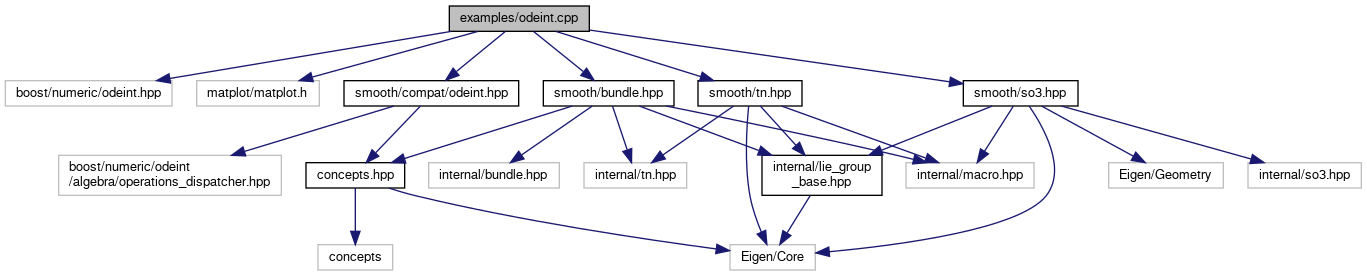
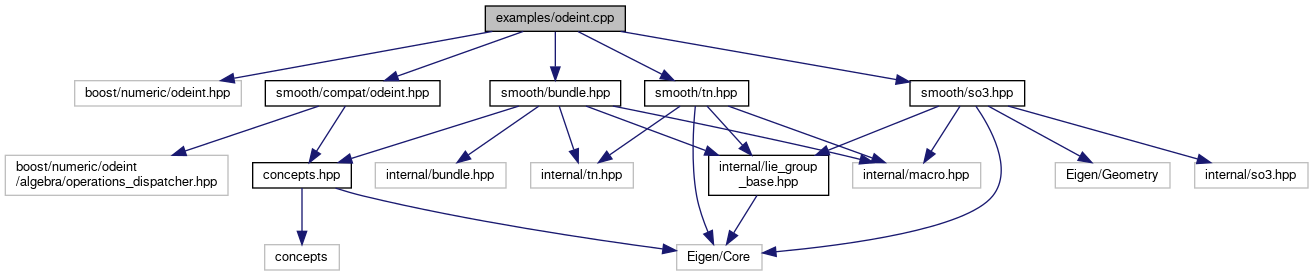
deploy: 5dc5e5d7a716d420cf006dfdaf5f03e4e88a1a3f

diff --git a/odeint_8cpp_source.html b/odeint_8cpp_source.html
@@ -104,97 +104,96 @@ $(function() {
 <div class="line"><a name="l00025"></a><span class="lineno">   25</span>&#160; </div>
 <div class="line"><a name="l00030"></a><span class="lineno">   30</span>&#160;<span class="preprocessor">#include &lt;boost/numeric/odeint.hpp&gt;</span></div>
 <div class="line"><a name="l00031"></a><span class="lineno">   31</span>&#160; </div>
-<div class="line"><a name="l00032"></a><span class="lineno">   32</span>&#160;<span class="preprocessor">#include &lt;matplot/matplot.h&gt;</span></div>
-<div class="line"><a name="l00033"></a><span class="lineno">   33</span>&#160; </div>
-<div class="line"><a name="l00034"></a><span class="lineno">   34</span>&#160;<span class="preprocessor">#include &quot;smooth/bundle.hpp&quot;</span></div>
-<div class="line"><a name="l00035"></a><span class="lineno">   35</span>&#160;<span class="preprocessor">#include &quot;<a class="code" href="odeint_8hpp.html">smooth/compat/odeint.hpp</a>&quot;</span></div>
-<div class="line"><a name="l00036"></a><span class="lineno">   36</span>&#160;<span class="preprocessor">#include &quot;smooth/so3.hpp&quot;</span></div>
-<div class="line"><a name="l00037"></a><span class="lineno">   37</span>&#160;<span class="preprocessor">#include &quot;smooth/tn.hpp&quot;</span></div>
-<div class="line"><a name="l00038"></a><span class="lineno">   38</span>&#160; </div>
-<div class="line"><a name="l00039"></a><span class="lineno">   39</span>&#160;<span class="preprocessor">#ifdef ENABLE_PLOTTING</span></div>
-<div class="line"><a name="l00040"></a><span class="lineno">   40</span>&#160;<span class="preprocessor">#include &quot;plot_tools.hpp&quot;</span></div>
-<div class="line"><a name="l00041"></a><span class="lineno">   41</span>&#160; </div>
-<div class="line"><a name="l00042"></a><span class="lineno">   42</span>&#160;<span class="keyword">using</span> matplot::plot;</div>
-<div class="line"><a name="l00043"></a><span class="lineno">   43</span>&#160;<span class="keyword">using</span> std::views::transform;</div>
-<div class="line"><a name="l00044"></a><span class="lineno">   44</span>&#160;<span class="preprocessor">#endif</span></div>
-<div class="line"><a name="l00045"></a><span class="lineno">   45</span>&#160; </div>
-<div class="line"><a name="l00054"></a><span class="lineno"><a class="line" href="odeint_8cpp.html#a2b760810e5bb0cfb55f0c7d6d74d4438">   54</a></span>&#160;<span class="keywordtype">int</span> <a class="code" href="odeint_8cpp.html#a2b760810e5bb0cfb55f0c7d6d74d4438">main</a>(<span class="keywordtype">int</span>, <span class="keywordtype">char</span> <span class="keyword">const</span> **)</div>
-<div class="line"><a name="l00055"></a><span class="lineno">   55</span>&#160;{</div>
-<div class="line"><a name="l00056"></a><span class="lineno">   56</span>&#160;  <span class="keyword">using</span> state_t = <a class="code" href="classsmooth_1_1Bundle.html">smooth::Bundle&lt;smooth::SO3d, Eigen::Vector3d&gt;</a>;</div>
-<div class="line"><a name="l00057"></a><span class="lineno">   57</span>&#160;  <span class="keyword">using</span> deriv_t = <span class="keyword">typename</span> state_t::Tangent;</div>
-<div class="line"><a name="l00058"></a><span class="lineno">   58</span>&#160; </div>
-<div class="line"><a name="l00059"></a><span class="lineno">   59</span>&#160;  std::srand(5);</div>
-<div class="line"><a name="l00060"></a><span class="lineno">   60</span>&#160; </div>
-<div class="line"><a name="l00061"></a><span class="lineno">   61</span>&#160;  <span class="comment">// equilibrium point</span></div>
-<div class="line"><a name="l00062"></a><span class="lineno">   62</span>&#160;  <span class="keyword">const</span> <a class="code" href="classsmooth_1_1SO3.html">smooth::SO3d</a> Xdes = <a class="code" href="classsmooth_1_1LieGroupBase.html#a2d07c997add59d0c5fe899f1bcdf05fa">smooth::SO3d::Identity</a>();</div>
-<div class="line"><a name="l00063"></a><span class="lineno">   63</span>&#160; </div>
-<div class="line"><a name="l00064"></a><span class="lineno">   64</span>&#160;  <span class="comment">// &quot;control&quot; proportional and derivative gains</span></div>
-<div class="line"><a name="l00065"></a><span class="lineno">   65</span>&#160;  constexpr <span class="keywordtype">double</span> kp = 1;</div>
-<div class="line"><a name="l00066"></a><span class="lineno">   66</span>&#160;  constexpr <span class="keywordtype">double</span> kd = 1;</div>
-<div class="line"><a name="l00067"></a><span class="lineno">   67</span>&#160; </div>
-<div class="line"><a name="l00068"></a><span class="lineno">   68</span>&#160;  <span class="keyword">auto</span> ode = [&amp;](<span class="keyword">const</span> state_t &amp; state, deriv_t &amp; deriv, double) {</div>
-<div class="line"><a name="l00069"></a><span class="lineno">   69</span>&#160;    deriv.template head&lt;3&gt;() = state.part&lt;1&gt;();</div>
-<div class="line"><a name="l00070"></a><span class="lineno">   70</span>&#160;    deriv.template tail&lt;3&gt;() = -kp * (state.part&lt;0&gt;() - Xdes) - kd * state.part&lt;1&gt;();</div>
-<div class="line"><a name="l00071"></a><span class="lineno">   71</span>&#160;  };</div>
-<div class="line"><a name="l00072"></a><span class="lineno">   72</span>&#160; </div>
-<div class="line"><a name="l00073"></a><span class="lineno">   73</span>&#160;  state_t state;</div>
-<div class="line"><a name="l00074"></a><span class="lineno">   74</span>&#160;  state.part&lt;0&gt;() = <a class="code" href="classsmooth_1_1SO3.html">smooth::SO3d</a>(Eigen::Quaterniond(0, 0.8, 0, 0.1));</div>
-<div class="line"><a name="l00075"></a><span class="lineno">   75</span>&#160;  state.part&lt;1&gt;() = Eigen::Vector3d(0, 0, 2);</div>
-<div class="line"><a name="l00076"></a><span class="lineno">   76</span>&#160; </div>
-<div class="line"><a name="l00077"></a><span class="lineno">   77</span>&#160;  std::vector&lt;double&gt; tvec;</div>
-<div class="line"><a name="l00078"></a><span class="lineno">   78</span>&#160;  std::vector&lt;state_t&gt; gvec;</div>
-<div class="line"><a name="l00079"></a><span class="lineno">   79</span>&#160; </div>
-<div class="line"><a name="l00080"></a><span class="lineno">   80</span>&#160;  <span class="keyword">auto</span> stepper = boost::numeric::odeint::</div>
-<div class="line"><a name="l00081"></a><span class="lineno">   81</span>&#160;    runge_kutta4&lt;state_t, double, deriv_t, double, boost::numeric::odeint::vector_space_algebra&gt;();</div>
-<div class="line"><a name="l00082"></a><span class="lineno">   82</span>&#160; </div>
-<div class="line"><a name="l00083"></a><span class="lineno">   83</span>&#160;  boost::numeric::odeint::integrate_const(</div>
-<div class="line"><a name="l00084"></a><span class="lineno">   84</span>&#160;    stepper, ode, state, 0., 10., 0.01, [&amp;tvec, &amp;gvec](<span class="keyword">const</span> state_t &amp; s, <span class="keywordtype">double</span> t) {</div>
-<div class="line"><a name="l00085"></a><span class="lineno">   85</span>&#160;      tvec.push_back(t);</div>
-<div class="line"><a name="l00086"></a><span class="lineno">   86</span>&#160;      gvec.push_back(s);</div>
-<div class="line"><a name="l00087"></a><span class="lineno">   87</span>&#160;    });</div>
-<div class="line"><a name="l00088"></a><span class="lineno">   88</span>&#160; </div>
-<div class="line"><a name="l00089"></a><span class="lineno">   89</span>&#160;<span class="preprocessor">#ifdef ENABLE_PLOTTING</span></div>
-<div class="line"><a name="l00090"></a><span class="lineno">   90</span>&#160;  matplot::figure();</div>
-<div class="line"><a name="l00091"></a><span class="lineno">   91</span>&#160;  matplot::hold(matplot::on);</div>
-<div class="line"><a name="l00092"></a><span class="lineno">   92</span>&#160;  <span class="comment">// plot a sphere</span></div>
-<div class="line"><a name="l00093"></a><span class="lineno">   93</span>&#160;  <span class="keyword">auto</span> phi = matplot::linspace(0, 2 * M_PI, 200);</div>
-<div class="line"><a name="l00094"></a><span class="lineno">   94</span>&#160;  <span class="keywordflow">for</span> (<span class="keywordtype">double</span> h = -0.9; h &lt; 0.95; h += 0.2) {</div>
-<div class="line"><a name="l00095"></a><span class="lineno">   95</span>&#160;    <span class="keyword">auto</span> xsph = r2v(phi | transform([&amp;](<span class="keywordtype">double</span> p) { <span class="keywordflow">return</span> std::sqrt(1. - h * h) * std::cos(p); }));</div>
-<div class="line"><a name="l00096"></a><span class="lineno">   96</span>&#160;    <span class="keyword">auto</span> ysph = r2v(phi | transform([&amp;](<span class="keywordtype">double</span> p) { <span class="keywordflow">return</span> std::sqrt(1. - h * h) * std::sin(p); }));</div>
-<div class="line"><a name="l00097"></a><span class="lineno">   97</span>&#160;    <span class="keyword">auto</span> zsph = r2v(phi | transform([&amp;](<span class="keywordtype">double</span> p) { <span class="keywordflow">return</span> h; }));</div>
-<div class="line"><a name="l00098"></a><span class="lineno">   98</span>&#160;    matplot::plot3(xsph, ysph, zsph)-&gt;line_width(0.25).color(<span class="stringliteral">&quot;gray&quot;</span>);</div>
-<div class="line"><a name="l00099"></a><span class="lineno">   99</span>&#160;    matplot::plot3(ysph, zsph, xsph)-&gt;line_width(0.25).color(<span class="stringliteral">&quot;gray&quot;</span>);</div>
-<div class="line"><a name="l00100"></a><span class="lineno">  100</span>&#160;    matplot::plot3(zsph, xsph, ysph)-&gt;line_width(0.25).color(<span class="stringliteral">&quot;gray&quot;</span>);</div>
-<div class="line"><a name="l00101"></a><span class="lineno">  101</span>&#160;  }</div>
-<div class="line"><a name="l00102"></a><span class="lineno">  102</span>&#160;  <span class="comment">// plot the trajectory</span></div>
-<div class="line"><a name="l00103"></a><span class="lineno">  103</span>&#160;  <span class="keyword">auto</span> xyz =</div>
-<div class="line"><a name="l00104"></a><span class="lineno">  104</span>&#160;    gvec | transform([](<span class="keyword">auto</span> s) { <span class="keywordflow">return</span> s.template part&lt;0&gt;() * Eigen::Vector3d::UnitZ(); });</div>
-<div class="line"><a name="l00105"></a><span class="lineno">  105</span>&#160;  matplot::plot3(r2v(xyz | transform([](<span class="keyword">auto</span> s) { <span class="keywordflow">return</span> s.x(); })),</div>
-<div class="line"><a name="l00106"></a><span class="lineno">  106</span>&#160;    r2v(xyz | transform([](<span class="keyword">auto</span> s) { <span class="keywordflow">return</span> s.y(); })),</div>
-<div class="line"><a name="l00107"></a><span class="lineno">  107</span>&#160;    r2v(xyz | transform([](<span class="keyword">auto</span> s) { <span class="keywordflow">return</span> s.z(); })))</div>
-<div class="line"><a name="l00108"></a><span class="lineno">  108</span>&#160;    -&gt;line_width(4)</div>
-<div class="line"><a name="l00109"></a><span class="lineno">  109</span>&#160;    .color(<span class="stringliteral">&quot;blue&quot;</span>);</div>
-<div class="line"><a name="l00110"></a><span class="lineno">  110</span>&#160;  matplot::title(<span class="stringliteral">&quot;Attitude&quot;</span>);</div>
-<div class="line"><a name="l00111"></a><span class="lineno">  111</span>&#160; </div>
-<div class="line"><a name="l00112"></a><span class="lineno">  112</span>&#160;  matplot::figure();</div>
-<div class="line"><a name="l00113"></a><span class="lineno">  113</span>&#160;  matplot::hold(matplot::on);</div>
-<div class="line"><a name="l00114"></a><span class="lineno">  114</span>&#160;  plot(tvec, r2v(gvec | transform([](<span class="keyword">auto</span> s) { <span class="keywordflow">return</span> s.template part&lt;1&gt;()[0]; })), <span class="stringliteral">&quot;r&quot;</span>)</div>
-<div class="line"><a name="l00115"></a><span class="lineno">  115</span>&#160;    -&gt;line_width(2);</div>
-<div class="line"><a name="l00116"></a><span class="lineno">  116</span>&#160;  plot(tvec, r2v(gvec | transform([](<span class="keyword">auto</span> s) { <span class="keywordflow">return</span> s.template part&lt;1&gt;()[1]; })), <span class="stringliteral">&quot;g&quot;</span>)</div>
-<div class="line"><a name="l00117"></a><span class="lineno">  117</span>&#160;    -&gt;line_width(2);</div>
-<div class="line"><a name="l00118"></a><span class="lineno">  118</span>&#160;  plot(tvec, r2v(gvec | transform([](<span class="keyword">auto</span> s) { <span class="keywordflow">return</span> s.template part&lt;1&gt;()[2]; })), <span class="stringliteral">&quot;b&quot;</span>)</div>
-<div class="line"><a name="l00119"></a><span class="lineno">  119</span>&#160;    -&gt;line_width(2);</div>
-<div class="line"><a name="l00120"></a><span class="lineno">  120</span>&#160;  matplot::title(<span class="stringliteral">&quot;Velocity&quot;</span>);</div>
-<div class="line"><a name="l00121"></a><span class="lineno">  121</span>&#160; </div>
-<div class="line"><a name="l00122"></a><span class="lineno">  122</span>&#160;  matplot::show();</div>
-<div class="line"><a name="l00123"></a><span class="lineno">  123</span>&#160;<span class="preprocessor">#endif</span></div>
-<div class="line"><a name="l00124"></a><span class="lineno">  124</span>&#160; </div>
-<div class="line"><a name="l00125"></a><span class="lineno">  125</span>&#160;  <span class="keywordflow">return</span> 0;</div>
-<div class="line"><a name="l00126"></a><span class="lineno">  126</span>&#160;}</div>
+<div class="line"><a name="l00032"></a><span class="lineno">   32</span>&#160;<span class="preprocessor">#include &quot;smooth/bundle.hpp&quot;</span></div>
+<div class="line"><a name="l00033"></a><span class="lineno">   33</span>&#160;<span class="preprocessor">#include &quot;<a class="code" href="odeint_8hpp.html">smooth/compat/odeint.hpp</a>&quot;</span></div>
+<div class="line"><a name="l00034"></a><span class="lineno">   34</span>&#160;<span class="preprocessor">#include &quot;smooth/so3.hpp&quot;</span></div>
+<div class="line"><a name="l00035"></a><span class="lineno">   35</span>&#160;<span class="preprocessor">#include &quot;smooth/tn.hpp&quot;</span></div>
+<div class="line"><a name="l00036"></a><span class="lineno">   36</span>&#160; </div>
+<div class="line"><a name="l00037"></a><span class="lineno">   37</span>&#160;<span class="preprocessor">#ifdef ENABLE_PLOTTING</span></div>
+<div class="line"><a name="l00038"></a><span class="lineno">   38</span>&#160;<span class="preprocessor">#include &lt;matplot/matplot.h&gt;</span></div>
+<div class="line"><a name="l00039"></a><span class="lineno">   39</span>&#160;<span class="preprocessor">#include &quot;plot_tools.hpp&quot;</span></div>
+<div class="line"><a name="l00040"></a><span class="lineno">   40</span>&#160; </div>
+<div class="line"><a name="l00041"></a><span class="lineno">   41</span>&#160;<span class="keyword">using</span> matplot::plot;</div>
+<div class="line"><a name="l00042"></a><span class="lineno">   42</span>&#160;<span class="keyword">using</span> std::views::transform;</div>
+<div class="line"><a name="l00043"></a><span class="lineno">   43</span>&#160;<span class="preprocessor">#endif</span></div>
+<div class="line"><a name="l00044"></a><span class="lineno">   44</span>&#160; </div>
+<div class="line"><a name="l00053"></a><span class="lineno"><a class="line" href="odeint_8cpp.html#a2b760810e5bb0cfb55f0c7d6d74d4438">   53</a></span>&#160;<span class="keywordtype">int</span> <a class="code" href="odeint_8cpp.html#a2b760810e5bb0cfb55f0c7d6d74d4438">main</a>(<span class="keywordtype">int</span>, <span class="keywordtype">char</span> <span class="keyword">const</span> **)</div>
+<div class="line"><a name="l00054"></a><span class="lineno">   54</span>&#160;{</div>
+<div class="line"><a name="l00055"></a><span class="lineno">   55</span>&#160;  <span class="keyword">using</span> state_t = <a class="code" href="classsmooth_1_1Bundle.html">smooth::Bundle&lt;smooth::SO3d, Eigen::Vector3d&gt;</a>;</div>
+<div class="line"><a name="l00056"></a><span class="lineno">   56</span>&#160;  <span class="keyword">using</span> deriv_t = <span class="keyword">typename</span> state_t::Tangent;</div>
+<div class="line"><a name="l00057"></a><span class="lineno">   57</span>&#160; </div>
+<div class="line"><a name="l00058"></a><span class="lineno">   58</span>&#160;  std::srand(5);</div>
+<div class="line"><a name="l00059"></a><span class="lineno">   59</span>&#160; </div>
+<div class="line"><a name="l00060"></a><span class="lineno">   60</span>&#160;  <span class="comment">// equilibrium point</span></div>
+<div class="line"><a name="l00061"></a><span class="lineno">   61</span>&#160;  <span class="keyword">const</span> <a class="code" href="classsmooth_1_1SO3.html">smooth::SO3d</a> Xdes = <a class="code" href="classsmooth_1_1LieGroupBase.html#a2d07c997add59d0c5fe899f1bcdf05fa">smooth::SO3d::Identity</a>();</div>
+<div class="line"><a name="l00062"></a><span class="lineno">   62</span>&#160; </div>
+<div class="line"><a name="l00063"></a><span class="lineno">   63</span>&#160;  <span class="comment">// &quot;control&quot; proportional and derivative gains</span></div>
+<div class="line"><a name="l00064"></a><span class="lineno">   64</span>&#160;  constexpr <span class="keywordtype">double</span> kp = 1;</div>
+<div class="line"><a name="l00065"></a><span class="lineno">   65</span>&#160;  constexpr <span class="keywordtype">double</span> kd = 1;</div>
+<div class="line"><a name="l00066"></a><span class="lineno">   66</span>&#160; </div>
+<div class="line"><a name="l00067"></a><span class="lineno">   67</span>&#160;  <span class="keyword">auto</span> ode = [&amp;](<span class="keyword">const</span> state_t &amp; state, deriv_t &amp; deriv, double) {</div>
+<div class="line"><a name="l00068"></a><span class="lineno">   68</span>&#160;    deriv.template head&lt;3&gt;() = state.part&lt;1&gt;();</div>
+<div class="line"><a name="l00069"></a><span class="lineno">   69</span>&#160;    deriv.template tail&lt;3&gt;() = -kp * (state.part&lt;0&gt;() - Xdes) - kd * state.part&lt;1&gt;();</div>
+<div class="line"><a name="l00070"></a><span class="lineno">   70</span>&#160;  };</div>
+<div class="line"><a name="l00071"></a><span class="lineno">   71</span>&#160; </div>
+<div class="line"><a name="l00072"></a><span class="lineno">   72</span>&#160;  state_t state;</div>
+<div class="line"><a name="l00073"></a><span class="lineno">   73</span>&#160;  state.part&lt;0&gt;() = <a class="code" href="classsmooth_1_1SO3.html">smooth::SO3d</a>(Eigen::Quaterniond(0, 0.8, 0, 0.1));</div>
+<div class="line"><a name="l00074"></a><span class="lineno">   74</span>&#160;  state.part&lt;1&gt;() = Eigen::Vector3d(0, 0, 2);</div>
+<div class="line"><a name="l00075"></a><span class="lineno">   75</span>&#160; </div>
+<div class="line"><a name="l00076"></a><span class="lineno">   76</span>&#160;  std::vector&lt;double&gt; tvec;</div>
+<div class="line"><a name="l00077"></a><span class="lineno">   77</span>&#160;  std::vector&lt;state_t&gt; gvec;</div>
+<div class="line"><a name="l00078"></a><span class="lineno">   78</span>&#160; </div>
+<div class="line"><a name="l00079"></a><span class="lineno">   79</span>&#160;  <span class="keyword">auto</span> stepper = boost::numeric::odeint::</div>
+<div class="line"><a name="l00080"></a><span class="lineno">   80</span>&#160;    runge_kutta4&lt;state_t, double, deriv_t, double, boost::numeric::odeint::vector_space_algebra&gt;();</div>
+<div class="line"><a name="l00081"></a><span class="lineno">   81</span>&#160; </div>
+<div class="line"><a name="l00082"></a><span class="lineno">   82</span>&#160;  boost::numeric::odeint::integrate_const(</div>
+<div class="line"><a name="l00083"></a><span class="lineno">   83</span>&#160;    stepper, ode, state, 0., 10., 0.01, [&amp;tvec, &amp;gvec](<span class="keyword">const</span> state_t &amp; s, <span class="keywordtype">double</span> t) {</div>
+<div class="line"><a name="l00084"></a><span class="lineno">   84</span>&#160;      tvec.push_back(t);</div>
+<div class="line"><a name="l00085"></a><span class="lineno">   85</span>&#160;      gvec.push_back(s);</div>
+<div class="line"><a name="l00086"></a><span class="lineno">   86</span>&#160;    });</div>
+<div class="line"><a name="l00087"></a><span class="lineno">   87</span>&#160; </div>
+<div class="line"><a name="l00088"></a><span class="lineno">   88</span>&#160;<span class="preprocessor">#ifdef ENABLE_PLOTTING</span></div>
+<div class="line"><a name="l00089"></a><span class="lineno">   89</span>&#160;  matplot::figure();</div>
+<div class="line"><a name="l00090"></a><span class="lineno">   90</span>&#160;  matplot::hold(matplot::on);</div>
+<div class="line"><a name="l00091"></a><span class="lineno">   91</span>&#160;  <span class="comment">// plot a sphere</span></div>
+<div class="line"><a name="l00092"></a><span class="lineno">   92</span>&#160;  <span class="keyword">auto</span> phi = matplot::linspace(0, 2 * M_PI, 200);</div>
+<div class="line"><a name="l00093"></a><span class="lineno">   93</span>&#160;  <span class="keywordflow">for</span> (<span class="keywordtype">double</span> h = -0.9; h &lt; 0.95; h += 0.2) {</div>
+<div class="line"><a name="l00094"></a><span class="lineno">   94</span>&#160;    <span class="keyword">auto</span> xsph = r2v(phi | transform([&amp;](<span class="keywordtype">double</span> p) { <span class="keywordflow">return</span> std::sqrt(1. - h * h) * std::cos(p); }));</div>
+<div class="line"><a name="l00095"></a><span class="lineno">   95</span>&#160;    <span class="keyword">auto</span> ysph = r2v(phi | transform([&amp;](<span class="keywordtype">double</span> p) { <span class="keywordflow">return</span> std::sqrt(1. - h * h) * std::sin(p); }));</div>
+<div class="line"><a name="l00096"></a><span class="lineno">   96</span>&#160;    <span class="keyword">auto</span> zsph = r2v(phi | transform([&amp;](<span class="keywordtype">double</span> p) { <span class="keywordflow">return</span> h; }));</div>
+<div class="line"><a name="l00097"></a><span class="lineno">   97</span>&#160;    matplot::plot3(xsph, ysph, zsph)-&gt;line_width(0.25).color(<span class="stringliteral">&quot;gray&quot;</span>);</div>
+<div class="line"><a name="l00098"></a><span class="lineno">   98</span>&#160;    matplot::plot3(ysph, zsph, xsph)-&gt;line_width(0.25).color(<span class="stringliteral">&quot;gray&quot;</span>);</div>
+<div class="line"><a name="l00099"></a><span class="lineno">   99</span>&#160;    matplot::plot3(zsph, xsph, ysph)-&gt;line_width(0.25).color(<span class="stringliteral">&quot;gray&quot;</span>);</div>
+<div class="line"><a name="l00100"></a><span class="lineno">  100</span>&#160;  }</div>
+<div class="line"><a name="l00101"></a><span class="lineno">  101</span>&#160;  <span class="comment">// plot the trajectory</span></div>
+<div class="line"><a name="l00102"></a><span class="lineno">  102</span>&#160;  <span class="keyword">auto</span> xyz =</div>
+<div class="line"><a name="l00103"></a><span class="lineno">  103</span>&#160;    gvec | transform([](<span class="keyword">auto</span> s) { <span class="keywordflow">return</span> s.template part&lt;0&gt;() * Eigen::Vector3d::UnitZ(); });</div>
+<div class="line"><a name="l00104"></a><span class="lineno">  104</span>&#160;  matplot::plot3(r2v(xyz | transform([](<span class="keyword">auto</span> s) { <span class="keywordflow">return</span> s.x(); })),</div>
+<div class="line"><a name="l00105"></a><span class="lineno">  105</span>&#160;    r2v(xyz | transform([](<span class="keyword">auto</span> s) { <span class="keywordflow">return</span> s.y(); })),</div>
+<div class="line"><a name="l00106"></a><span class="lineno">  106</span>&#160;    r2v(xyz | transform([](<span class="keyword">auto</span> s) { <span class="keywordflow">return</span> s.z(); })))</div>
+<div class="line"><a name="l00107"></a><span class="lineno">  107</span>&#160;    -&gt;line_width(4)</div>
+<div class="line"><a name="l00108"></a><span class="lineno">  108</span>&#160;    .color(<span class="stringliteral">&quot;blue&quot;</span>);</div>
+<div class="line"><a name="l00109"></a><span class="lineno">  109</span>&#160;  matplot::title(<span class="stringliteral">&quot;Attitude&quot;</span>);</div>
+<div class="line"><a name="l00110"></a><span class="lineno">  110</span>&#160; </div>
+<div class="line"><a name="l00111"></a><span class="lineno">  111</span>&#160;  matplot::figure();</div>
+<div class="line"><a name="l00112"></a><span class="lineno">  112</span>&#160;  matplot::hold(matplot::on);</div>
+<div class="line"><a name="l00113"></a><span class="lineno">  113</span>&#160;  plot(tvec, r2v(gvec | transform([](<span class="keyword">auto</span> s) { <span class="keywordflow">return</span> s.template part&lt;1&gt;()[0]; })), <span class="stringliteral">&quot;r&quot;</span>)</div>
+<div class="line"><a name="l00114"></a><span class="lineno">  114</span>&#160;    -&gt;line_width(2);</div>
+<div class="line"><a name="l00115"></a><span class="lineno">  115</span>&#160;  plot(tvec, r2v(gvec | transform([](<span class="keyword">auto</span> s) { <span class="keywordflow">return</span> s.template part&lt;1&gt;()[1]; })), <span class="stringliteral">&quot;g&quot;</span>)</div>
+<div class="line"><a name="l00116"></a><span class="lineno">  116</span>&#160;    -&gt;line_width(2);</div>
+<div class="line"><a name="l00117"></a><span class="lineno">  117</span>&#160;  plot(tvec, r2v(gvec | transform([](<span class="keyword">auto</span> s) { <span class="keywordflow">return</span> s.template part&lt;1&gt;()[2]; })), <span class="stringliteral">&quot;b&quot;</span>)</div>
+<div class="line"><a name="l00118"></a><span class="lineno">  118</span>&#160;    -&gt;line_width(2);</div>
+<div class="line"><a name="l00119"></a><span class="lineno">  119</span>&#160;  matplot::title(<span class="stringliteral">&quot;Velocity&quot;</span>);</div>
+<div class="line"><a name="l00120"></a><span class="lineno">  120</span>&#160; </div>
+<div class="line"><a name="l00121"></a><span class="lineno">  121</span>&#160;  matplot::show();</div>
+<div class="line"><a name="l00122"></a><span class="lineno">  122</span>&#160;<span class="preprocessor">#endif</span></div>
+<div class="line"><a name="l00123"></a><span class="lineno">  123</span>&#160; </div>
+<div class="line"><a name="l00124"></a><span class="lineno">  124</span>&#160;  <span class="keywordflow">return</span> 0;</div>
+<div class="line"><a name="l00125"></a><span class="lineno">  125</span>&#160;}</div>
 <div class="ttc" id="aclasssmooth_1_1Bundle_html"><div class="ttname"><a href="classsmooth_1_1Bundle.html">smooth::Bundle</a></div><div class="ttdoc">Storage implementation of Bundle lie group.</div><div class="ttdef"><b>Definition:</b> <a href="bundle_8hpp_source.html#l00153">bundle.hpp:154</a></div></div>
 <div class="ttc" id="aclasssmooth_1_1LieGroupBase_html_a2d07c997add59d0c5fe899f1bcdf05fa"><div class="ttname"><a href="classsmooth_1_1LieGroupBase.html#a2d07c997add59d0c5fe899f1bcdf05fa">smooth::LieGroupBase::Identity</a></div><div class="ttdeci">static PlainObject Identity()</div><div class="ttdoc">Construct the identity element.</div><div class="ttdef"><b>Definition:</b> <a href="lie__group__base_8hpp_source.html#l00129">lie_group_base.hpp:129</a></div></div>
 <div class="ttc" id="aclasssmooth_1_1SO3_html"><div class="ttname"><a href="classsmooth_1_1SO3.html">smooth::SO3</a></div><div class="ttdoc">Storage implementation of SO3 Lie group.</div><div class="ttdef"><b>Definition:</b> <a href="so3_8hpp_source.html#l00176">so3.hpp:177</a></div></div>
-<div class="ttc" id="aodeint_8cpp_html_a2b760810e5bb0cfb55f0c7d6d74d4438"><div class="ttname"><a href="odeint_8cpp.html#a2b760810e5bb0cfb55f0c7d6d74d4438">main</a></div><div class="ttdeci">int main(int, char const **)</div><div class="ttdoc">Numerically solve the following ODE on :</div><div class="ttdef"><b>Definition:</b> <a href="odeint_8cpp_source.html#l00054">odeint.cpp:54</a></div></div>
+<div class="ttc" id="aodeint_8cpp_html_a2b760810e5bb0cfb55f0c7d6d74d4438"><div class="ttname"><a href="odeint_8cpp.html#a2b760810e5bb0cfb55f0c7d6d74d4438">main</a></div><div class="ttdeci">int main(int, char const **)</div><div class="ttdoc">Numerically solve the following ODE on :</div><div class="ttdef"><b>Definition:</b> <a href="odeint_8cpp_source.html#l00053">odeint.cpp:53</a></div></div>
 <div class="ttc" id="aodeint_8hpp_html"><div class="ttname"><a href="odeint_8hpp.html">odeint.hpp</a></div><div class="ttdoc">boost::odeint compatability header.</div></div>
 </div><!-- fragment --></div><!-- contents -->
 <!-- start footer part -->

diff --git a/odeint_8cpp.html b/odeint_8cpp.html
@@ -80,7 +80,6 @@ $(function() {
 </div><!--header-->
 <div class="contents">
 <div class="textblock"><code>#include &lt;boost/numeric/odeint.hpp&gt;</code><br />
-<code>#include &lt;matplot/matplot.h&gt;</code><br />
 <code>#include &quot;smooth/bundle.hpp&quot;</code><br />
 <code>#include &quot;<a class="el" href="odeint_8hpp_source.html">smooth/compat/odeint.hpp</a>&quot;</code><br />
 <code>#include &quot;smooth/so3.hpp&quot;</code><br />
@@ -90,23 +89,22 @@ Include dependency graph for odeint.cpp:</div>
 <div class="dyncontent">
 <div class="center"><img src="odeint_8cpp__incl.png" border="0" usemap="#aexamples_2odeint_8cpp" alt=""/></div>
 <map name="aexamples_2odeint_8cpp" id="aexamples_2odeint_8cpp">
-<area shape="rect" title=" " alt="" coords="449,5,589,32"/>
-<area shape="rect" title=" " alt="" coords="5,80,172,107"/>
-<area shape="rect" title=" " alt="" coords="197,80,319,107"/>
-<area shape="rect" href="bundle_8hpp_source.html" title=" " alt="" coords="543,80,674,107"/>
-<area shape="rect" href="odeint_8hpp.html" title="boost::odeint compatability header." alt="" coords="344,80,519,107"/>
-<area shape="rect" href="so3_8hpp_source.html" title=" " alt="" coords="963,80,1078,107"/>
-<area shape="rect" href="tn_8hpp_source.html" title=" " alt="" coords="698,80,802,107"/>
-<area shape="rect" href="concepts_8hpp.html" title=" " alt="" coords="306,162,405,189"/>
-<area shape="rect" title=" " alt="" coords="429,162,559,189"/>
-<area shape="rect" href="lie__group__base_8hpp_source.html" title=" " alt="" coords="762,155,882,196"/>
-<area shape="rect" title=" " alt="" coords="906,162,1034,189"/>
-<area shape="rect" title=" " alt="" coords="584,162,687,189"/>
-<area shape="rect" title=" " alt="" coords="318,244,393,271"/>
-<area shape="rect" title=" " alt="" coords="730,244,815,271"/>
-<area shape="rect" title=" " alt="" coords="59,155,281,196"/>
-<area shape="rect" title=" " alt="" coords="1109,162,1223,189"/>
-<area shape="rect" title=" " alt="" coords="1248,162,1361,189"/>
+<area shape="rect" title=" " alt="" coords="485,5,625,32"/>
+<area shape="rect" title=" " alt="" coords="75,80,241,107"/>
+<area shape="rect" href="bundle_8hpp_source.html" title=" " alt="" coords="490,80,621,107"/>
+<area shape="rect" href="odeint_8hpp.html" title="boost::odeint compatability header." alt="" coords="265,80,440,107"/>
+<area shape="rect" href="so3_8hpp_source.html" title=" " alt="" coords="910,80,1025,107"/>
+<area shape="rect" href="tn_8hpp_source.html" title=" " alt="" coords="645,80,749,107"/>
+<area shape="rect" href="concepts_8hpp.html" title=" " alt="" coords="253,162,351,189"/>
+<area shape="rect" title=" " alt="" coords="375,162,506,189"/>
+<area shape="rect" href="lie__group__base_8hpp_source.html" title=" " alt="" coords="709,155,829,196"/>
+<area shape="rect" title=" " alt="" coords="853,162,981,189"/>
+<area shape="rect" title=" " alt="" coords="531,162,633,189"/>
+<area shape="rect" title=" " alt="" coords="265,244,339,271"/>
+<area shape="rect" title=" " alt="" coords="677,244,762,271"/>
+<area shape="rect" title=" " alt="" coords="5,155,228,196"/>
+<area shape="rect" title=" " alt="" coords="1055,162,1170,189"/>
+<area shape="rect" title=" " alt="" coords="1195,162,1308,189"/>
 </map>
 </div>
 </div>
@@ -154,7 +152,7 @@ Functions</h2></td></tr>
 \[ \mathrm{d}^r X_t = v(t) \\ \mathrm{d}^r v_t = -k_p * (X(t) \ominus X_{des}(t)) - k_d * v(t) \]
 </p>
  
-<p class="definition">Definition at line <a class="el" href="odeint_8cpp_source.html#l00054">54</a> of file <a class="el" href="odeint_8cpp_source.html">odeint.cpp</a>.</p>
+<p class="definition">Definition at line <a class="el" href="odeint_8cpp_source.html#l00053">53</a> of file <a class="el" href="odeint_8cpp_source.html">odeint.cpp</a>.</p>
 
 </div>
 </div>

diff --git a/spline__fit_8cpp_source.html b/spline__fit_8cpp_source.html
@@ -107,7 +107,7 @@ $(function() {
 <div class="line"><a name="l00028"></a><span class="lineno">   28</span>&#160;<span class="preprocessor">#include &quot;<a class="code" href="bspline_8hpp.html">smooth/spline/bspline.hpp</a>&quot;</span></div>
 <div class="line"><a name="l00029"></a><span class="lineno">   29</span>&#160; </div>
 <div class="line"><a name="l00030"></a><span class="lineno">   30</span>&#160;<span class="preprocessor">#ifdef ENABLE_PLOTTING</span></div>
-<div class="line"><a name="l00031"></a><span class="lineno">   31</span>&#160;<span class="preprocessor">#include &quot;matplot/matplot.h&quot;</span></div>
+<div class="line"><a name="l00031"></a><span class="lineno">   31</span>&#160;<span class="preprocessor">#include &lt;matplot/matplot.h&gt;</span></div>
 <div class="line"><a name="l00032"></a><span class="lineno">   32</span>&#160;<span class="preprocessor">#include &quot;plot_tools.hpp&quot;</span></div>
 <div class="line"><a name="l00033"></a><span class="lineno">   33</span>&#160; </div>
 <div class="line"><a name="l00034"></a><span class="lineno">   34</span>&#160;<span class="keyword">using</span> matplot::plot;</div>

diff --git a/bspline_8cpp_source.html b/bspline_8cpp_source.html
@@ -106,7 +106,7 @@ $(function() {
 <div class="line"><a name="l00031"></a><span class="lineno">   31</span>&#160;<span class="preprocessor">#include &quot;smooth/so3.hpp&quot;</span></div>
 <div class="line"><a name="l00032"></a><span class="lineno">   32</span>&#160; </div>
 <div class="line"><a name="l00033"></a><span class="lineno">   33</span>&#160;<span class="preprocessor">#ifdef ENABLE_PLOTTING</span></div>
-<div class="line"><a name="l00034"></a><span class="lineno">   34</span>&#160;<span class="preprocessor">#include &quot;matplot/matplot.h&quot;</span></div>
+<div class="line"><a name="l00034"></a><span class="lineno">   34</span>&#160;<span class="preprocessor">#include &lt;matplot/matplot.h&gt;</span></div>
 <div class="line"><a name="l00035"></a><span class="lineno">   35</span>&#160;<span class="preprocessor">#include &quot;plot_tools.hpp&quot;</span></div>
 <div class="line"><a name="l00036"></a><span class="lineno">   36</span>&#160; </div>
 <div class="line"><a name="l00037"></a><span class="lineno">   37</span>&#160;<span class="keyword">using</span> matplot::plot;</div>
